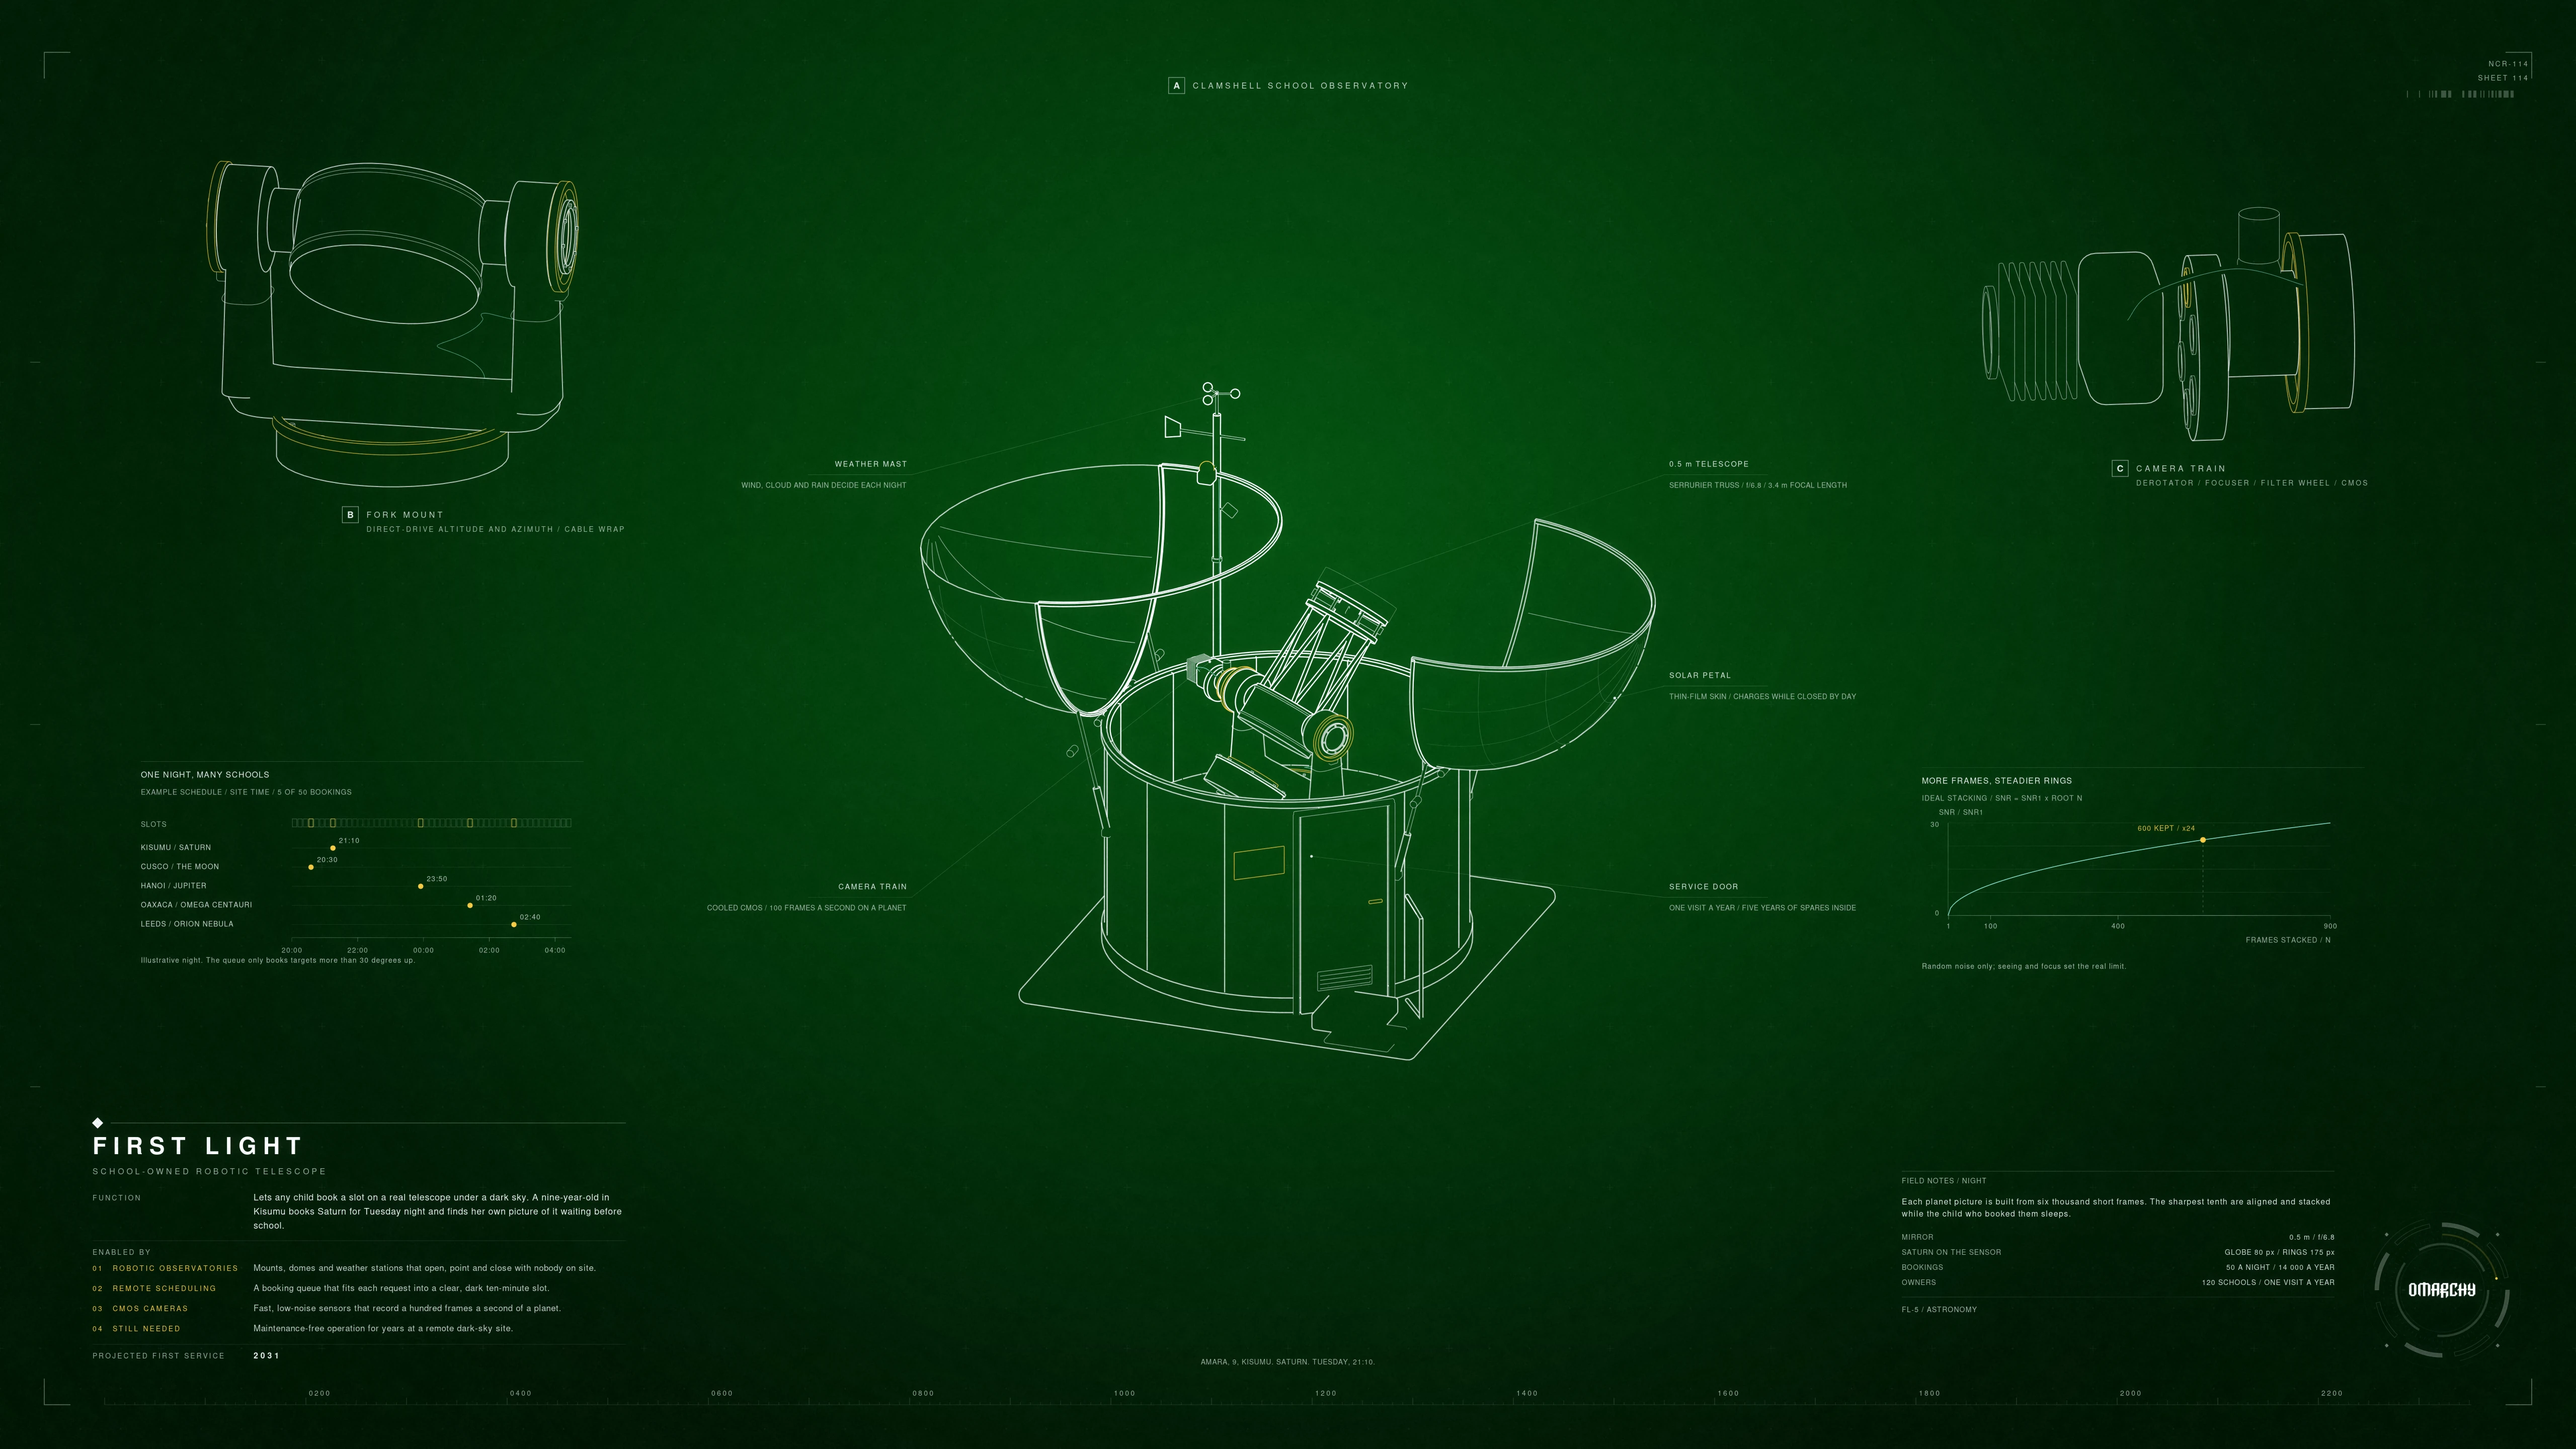
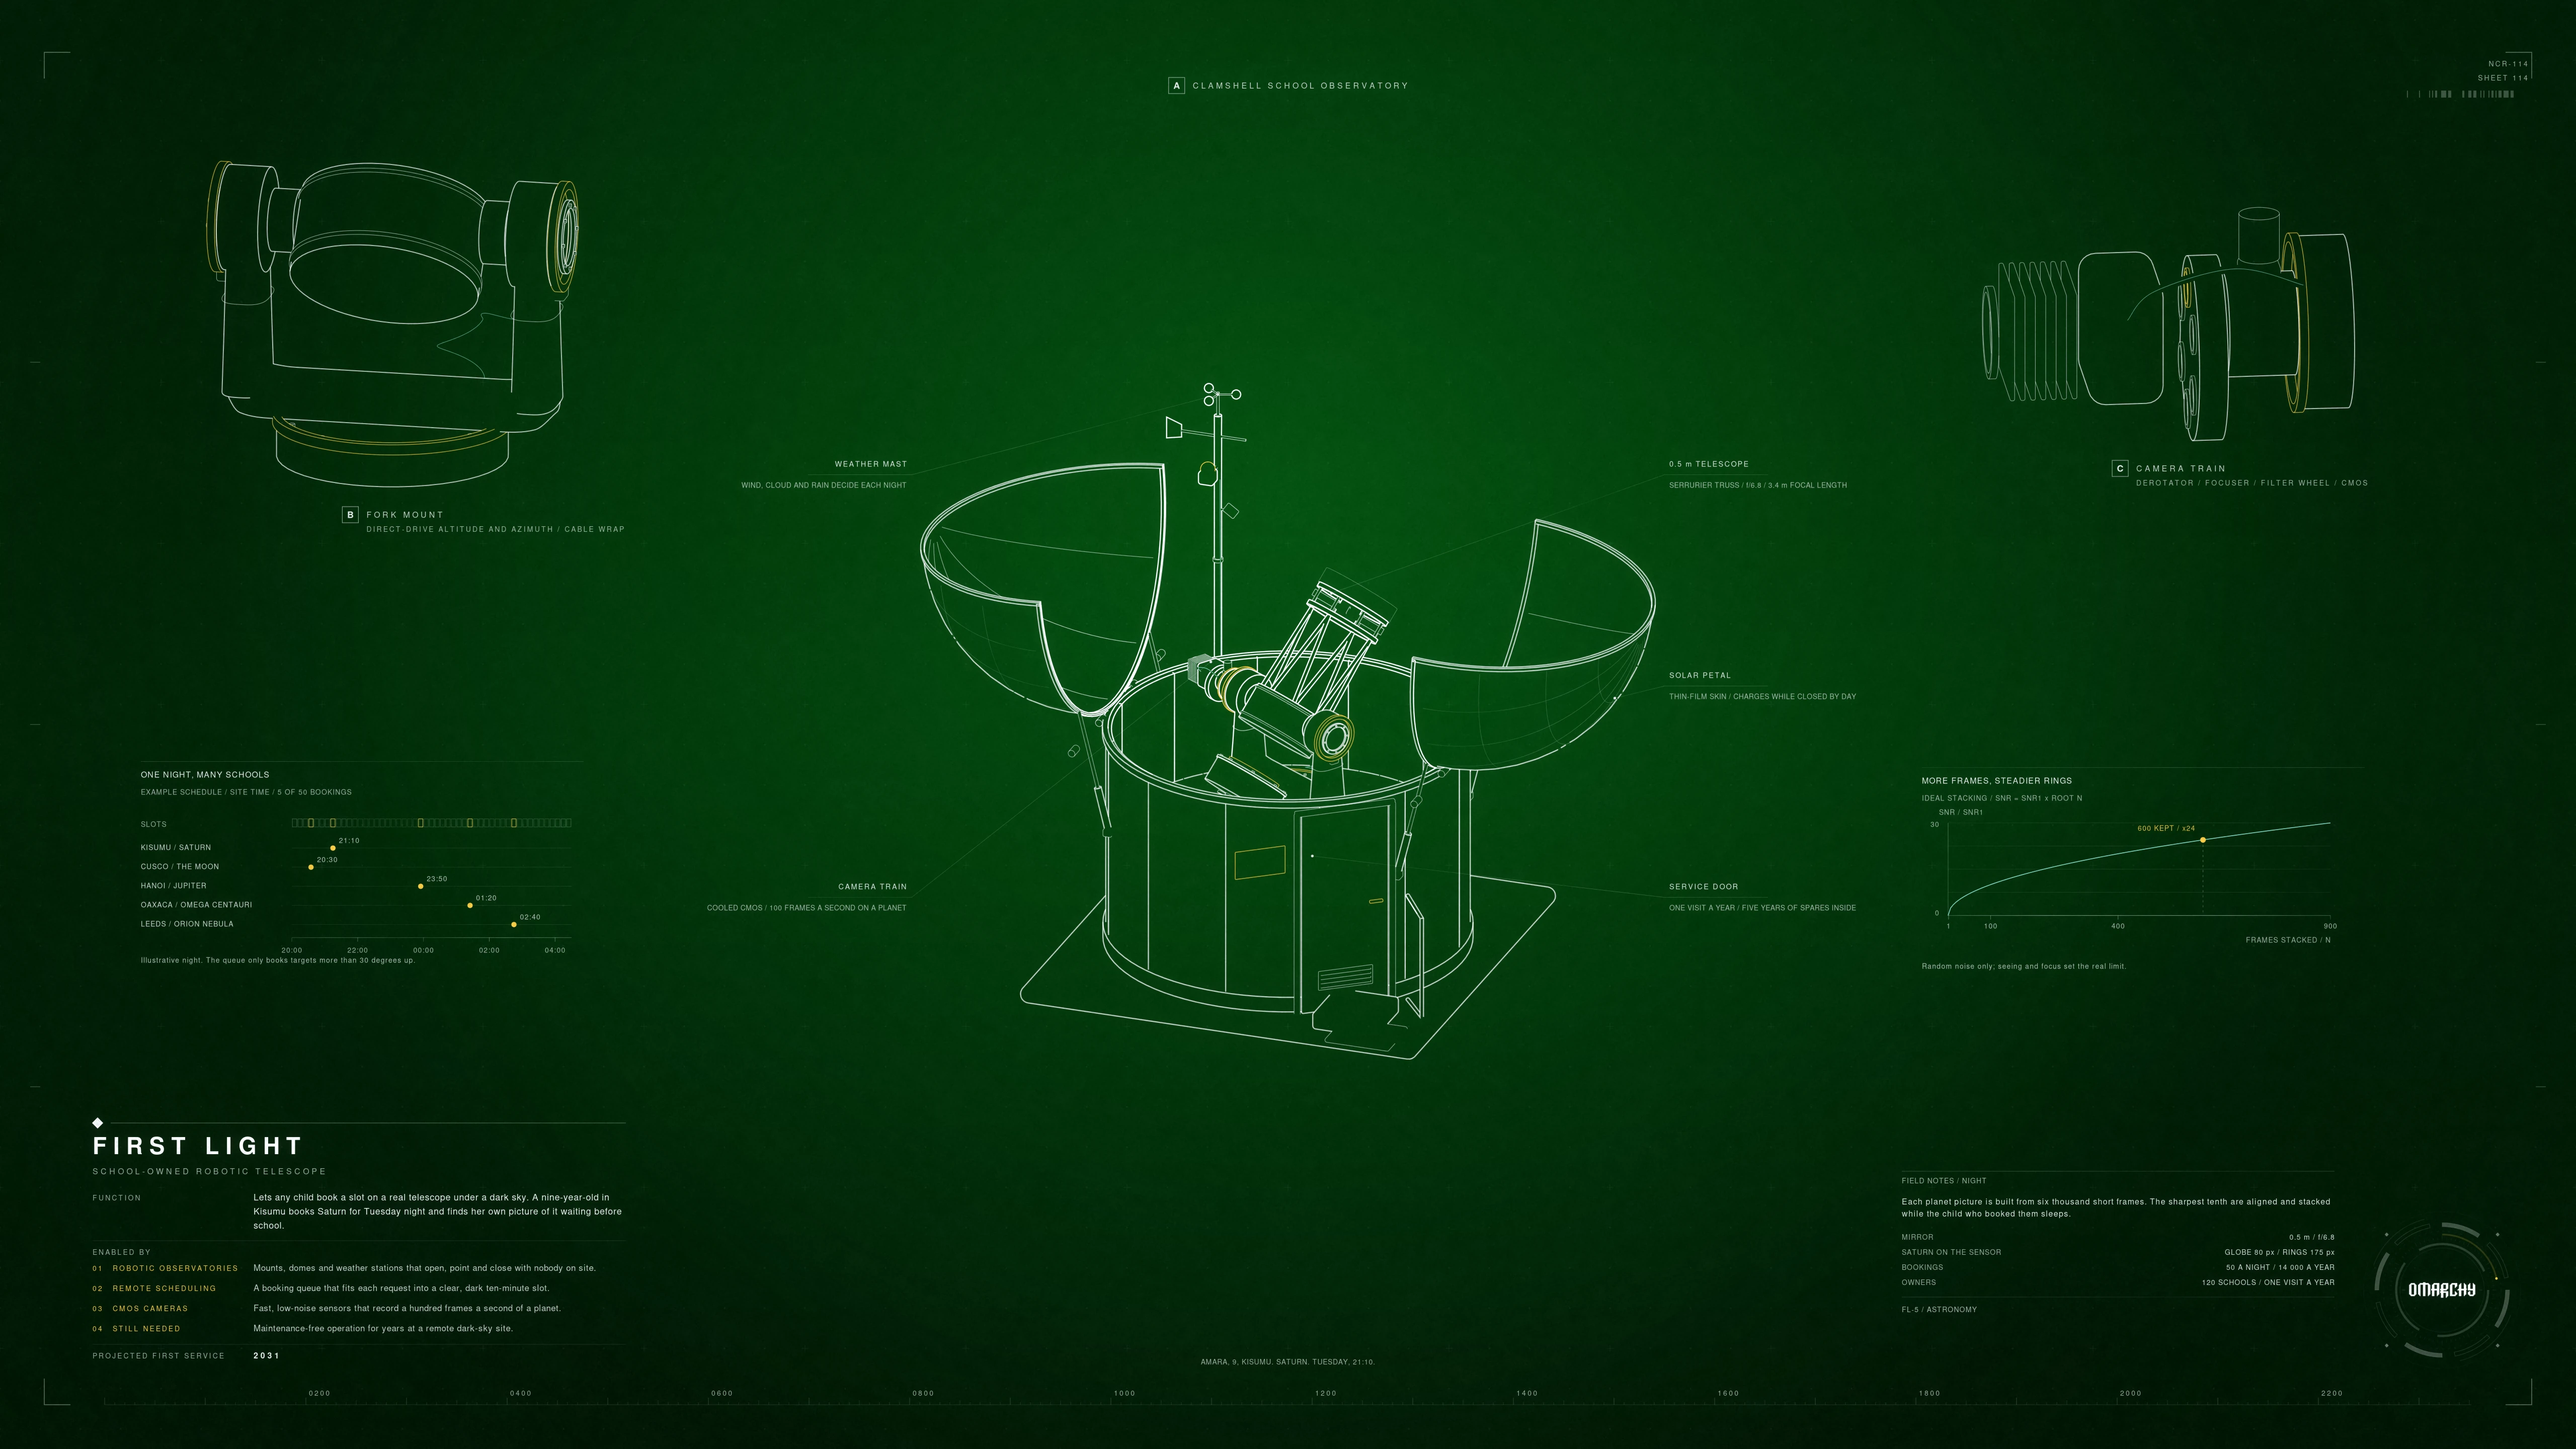
First Light: the dome halves close into one hemisphere
The lip along each petal's cut edge was drawn with a fixed reference
direction, so the left petal's lip hung below the equator and its rim
read as a full circle. Both lips now follow their own petal. Re-exported
b04, accepted the new 5K master and updated the bundled hash.

Claude-Session: https://claude.ai/code/session_01MgACV8Xkkc1tXD2fXTE1R9

diff --git a/tools/century/bloom/b04_first_light_model.py b/tools/century/bloom/b04_first_light_model.py
@@ -36,7 +36,9 @@ def shell(side):
     with at(hinge, side * OPEN, 'Y'):
         dome('clamshell solar shell', c, SHELL, SHELL, 'structure', 48, 14, a0, a1)
         # Stiffening lip along the cut meridian, and the equator seat.
-        arc_tube('shell meridian lip', c + Vector((-side * 1.5, 0, 0)), (side, 0, 0), (0, 1, 0), SHELL + 1.5, 3, 3, 0, 180, 'structure')
+        # The lip runs over the top on both petals: ref turns with the side, so axis x ref is always +z
+        # (with a fixed +y ref the left petal's lip hung below the seat and its rim read as a full circle).
+        arc_tube('shell meridian lip', c + Vector((-side * 1.5, 0, 0)), (side, 0, 0), (0, side, 0), SHELL + 1.5, 3, 3, 0, 180, 'structure')
         arc_tube('shell seat ring', c, (0, 0, 1), (side, 0, 0), SHELL + 1.5, 3, 3, -90, 90, 'structure')
         # Thin-film solar tiles: meridian and latitude seams on the outer skin.
         for az in range(a0 + 18, a1, 18):
